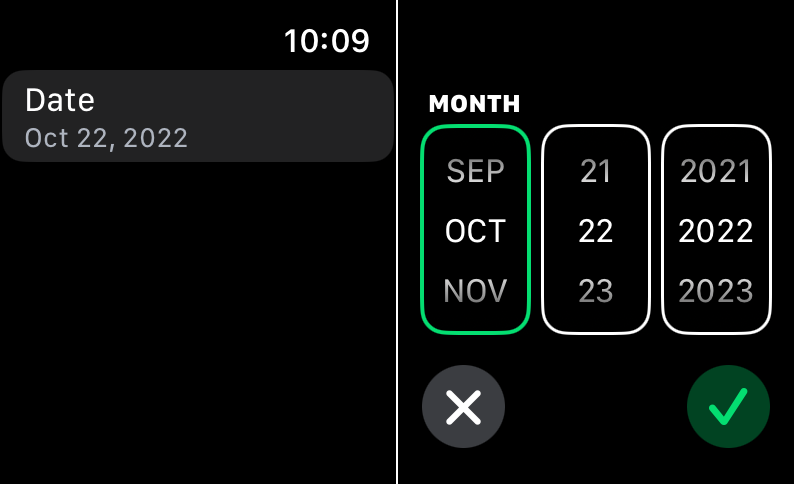
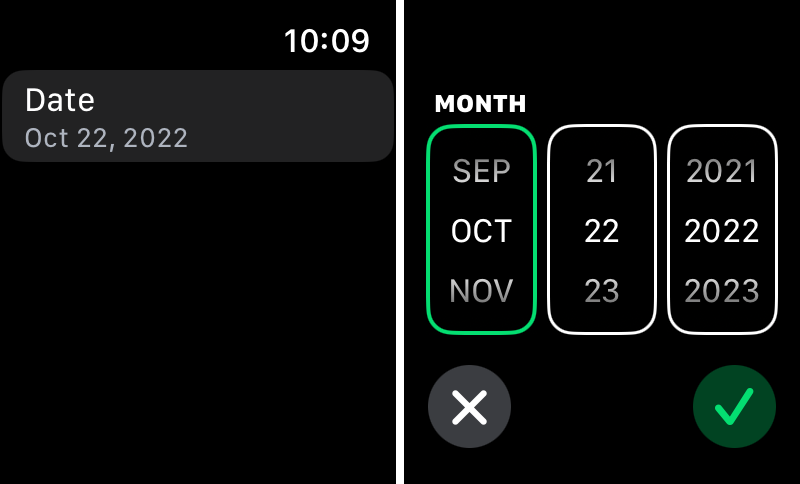
Enlarge gaps in collage screenshots

diff --git a/README.md b/README.md
@@ -29,7 +29,7 @@ DatePicker(
 )
 ```
 
-<img src="/Sources/WatchDatePicker/Documentation.docc/Resources/DatePicker.png?raw=true" alt="" width="596" />
+<img src="/Sources/WatchDatePicker/Documentation.docc/Resources/DatePicker.png?raw=true" alt="" width="602" />
 
 
 ### Selecting a Date
@@ -42,7 +42,7 @@ DatePicker(
 )
 ```
 
-<img src="/Sources/WatchDatePicker/Documentation.docc/Resources/DatePicker_date.png?raw=true" alt="" width="397" />
+<img src="/Sources/WatchDatePicker/Documentation.docc/Resources/DatePicker_date.png?raw=true" alt="" width="400" />
 
 
 ### Selecting a Time
@@ -55,7 +55,7 @@ DatePicker(
 )
 ```
 
-<img src="/Sources/WatchDatePicker/Documentation.docc/Resources/DatePicker_hourAndMinute.png?raw=true" alt="" width="397" />
+<img src="/Sources/WatchDatePicker/Documentation.docc/Resources/DatePicker_hourAndMinute.png?raw=true" alt="" width="400" />
 
 
 ### Customization
